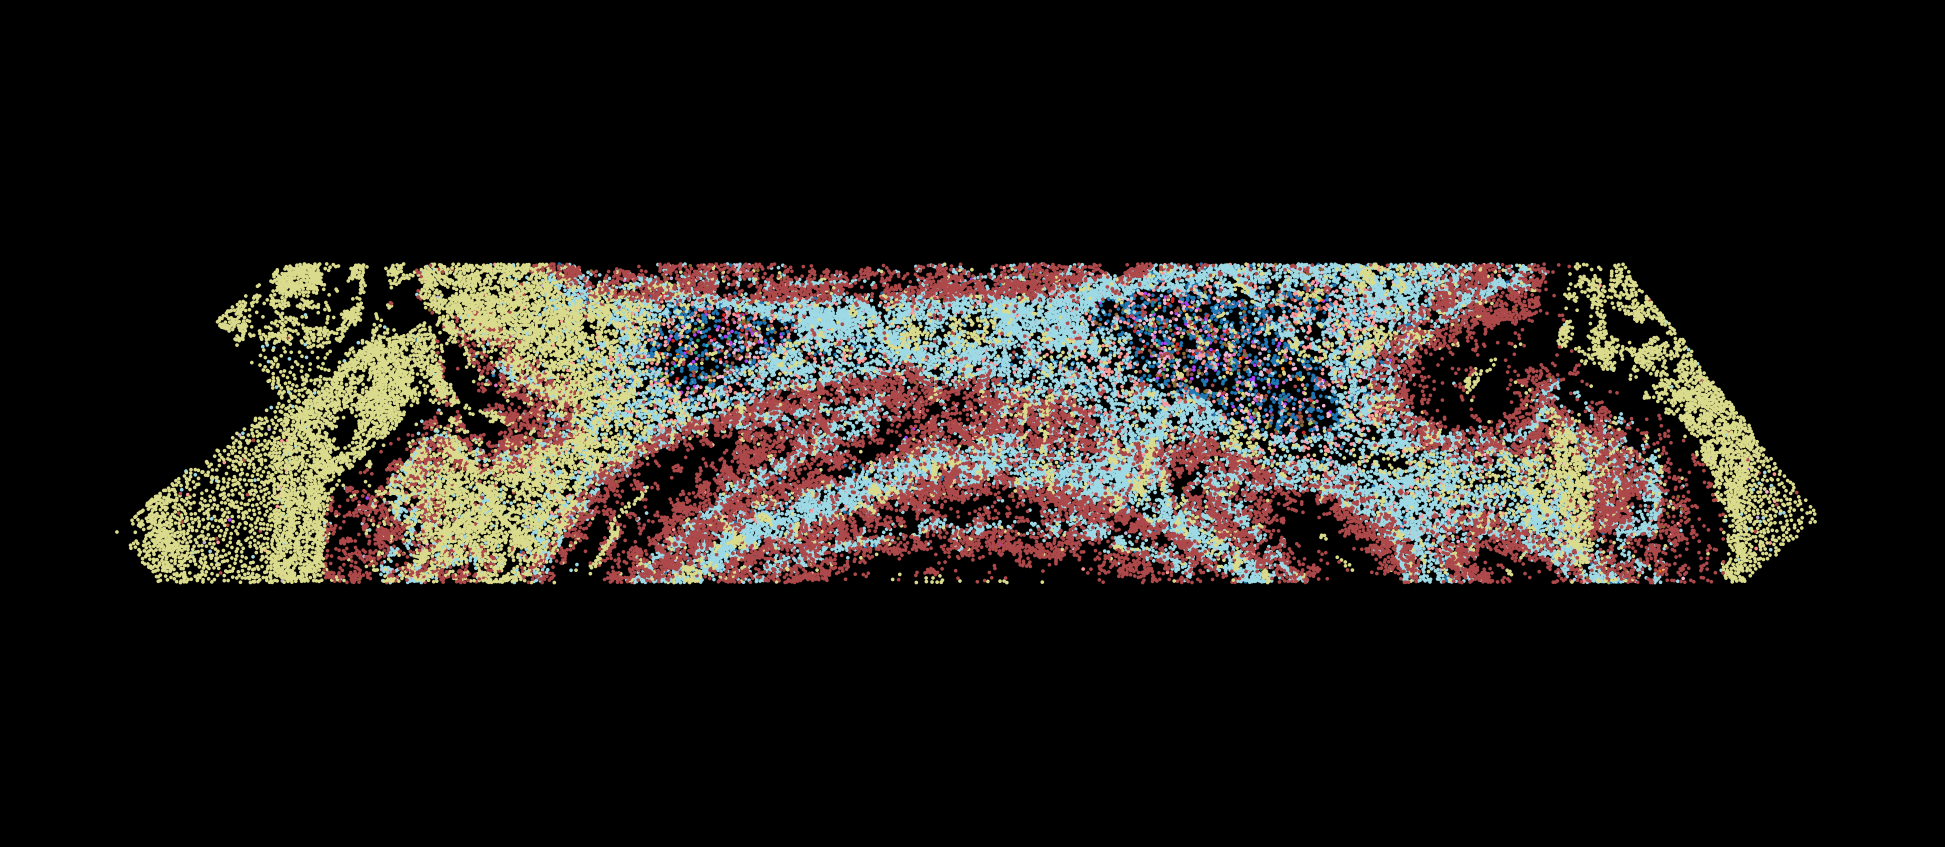
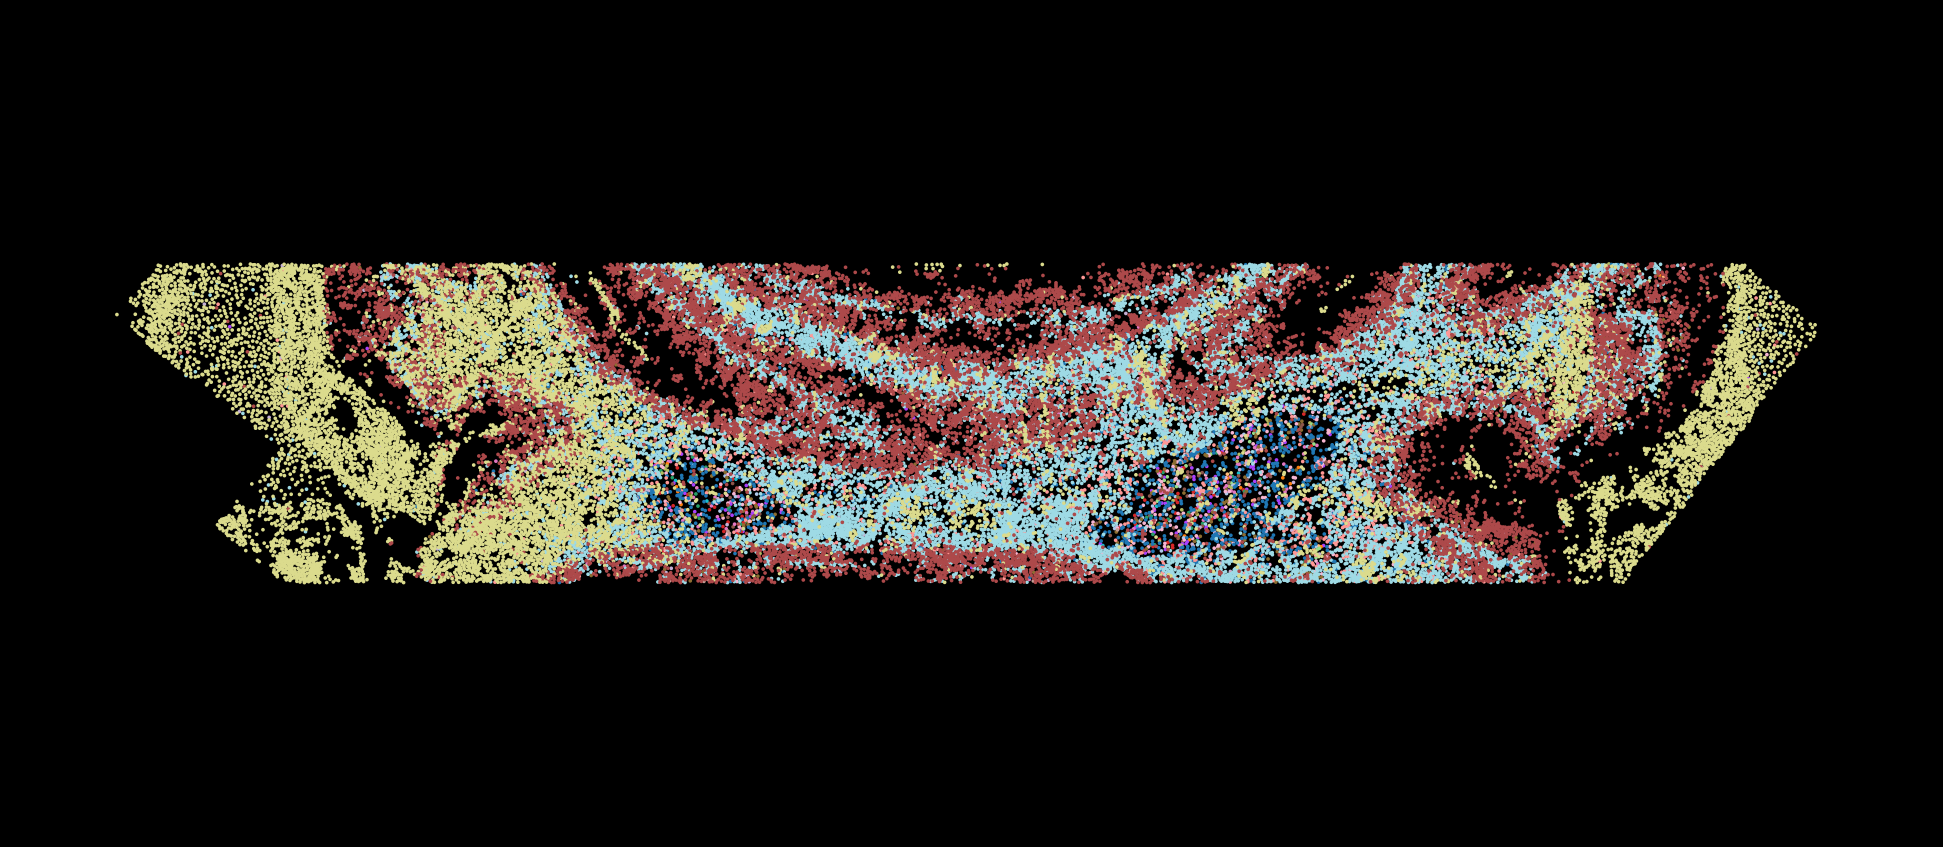
update thumbnails

Changed region(s): [[0.0618, 0.307, 0.9573, 0.706]]

diff --git a/src/LandingPage.js b/src/LandingPage.js
@@ -9,11 +9,11 @@ const datasets = [
   { name: "E12", config: "e12", thumbnail: process.env.PUBLIC_URL + "/thumbnail/e12_finer_cell_types.png" },
   { name: "E13", config: "e13", thumbnail: process.env.PUBLIC_URL + "/thumbnail/e13_finer_cell_types.png" },
   { name: "E14", config: "e14", thumbnail: process.env.PUBLIC_URL + "/thumbnail/e14_cell_types.png" }, // to do 
-  { name: "E15", config: "e15", thumbnail: process.env.PUBLIC_URL + "/thumbnail/e15.png" }, // to do 
-  { name: "E17", config: "e17", thumbnail: process.env.PUBLIC_URL + "/thumbnail/e17.png" }, // to do 
+  { name: "E15", config: "e15", thumbnail: process.env.PUBLIC_URL + "/thumbnail/e15_finer_cell_types.png" }, // to do 
+  { name: "E17", config: "e17", thumbnail: process.env.PUBLIC_URL + "/thumbnail/e17_cell_types.png" }, // to do 
   { name: "P0",  config: "p0",  thumbnail: process.env.PUBLIC_URL + "/thumbnail/p0_finer_cell_types.png" },
   { name: "P4",  config: "p4",  thumbnail: process.env.PUBLIC_URL + "/thumbnail/p4_finer_cell_types.png" },
-  { name: "P56", config: "p56", thumbnail: process.env.PUBLIC_URL + "/thumbnail/p56.png" }, // to do 
+  { name: "P56", config: "p56", thumbnail: process.env.PUBLIC_URL + "/thumbnail/p56_finer_cell_types.png" }, // to do 
 ];
 
 export default function LandingPage() {
